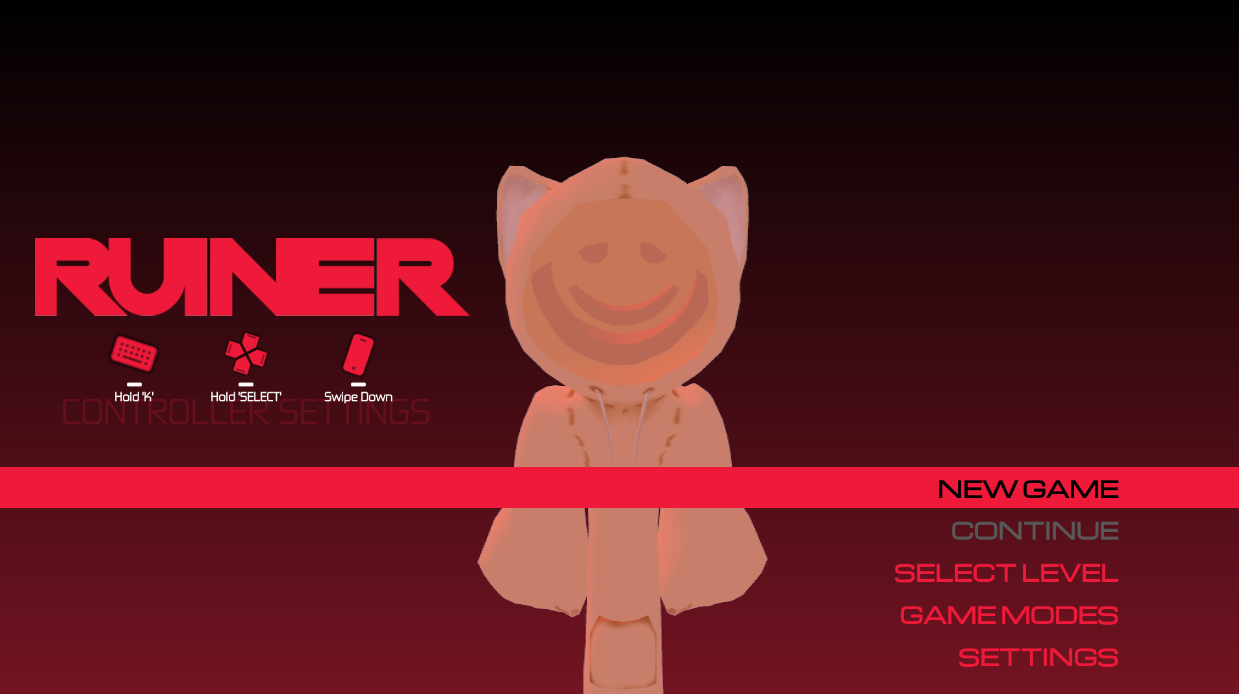
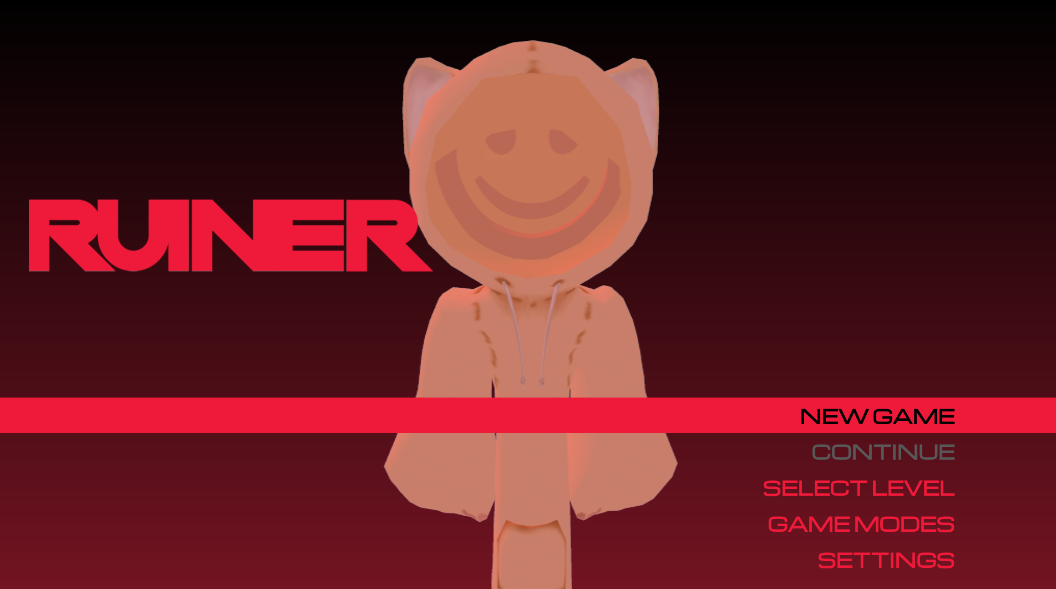
docs(style): some features are removed and news are implemented

diff --git a/README.md b/README.md
@@ -6,15 +6,14 @@ A modern Ui with nice red tones, should be used as the main Menu of your game. C
 
 ## 🔥 Announcement
 
-[![See on Youtube]()]()
+[![unavailable link]()]()
 
 _Check the oficial video for a detailed preview from the project_
 
 ## 💡 Features
 
 - Insane & beautiful color palletes
-- Input method switcher
-- Compatibility w/ Gamepads, Mobile & Keyboard to navigate through buttons
+- Compatibility w/ Keyboard to navigate through buttons
 - 3D Preview of your char in the background
 - Basic animations (char included)
 
@@ -53,19 +52,6 @@ no CMD or especial commands are required to install this project
   - Navigate up: `Arrow Up`
   - Navigate down: `Arrow Down`
 
-- Gamepad:
-
-  - Enter on a especified window: `A` or `X`
-  - Navigate up: `DPad Up`
-  - Navigate down: `DPad Down`
-
-- Mobile:
-  - Enter on a especified window: `Touch`
-  - Navigate up: `Swipe up`
-  - Navigate down: `Swipe down`
-
-_All of the time, the player can switch the input method using Keybinds or Gestures._
-
 > _this is a basic demo, the usage tutorial is propositely simple_
 
 ## 👨🏻💻 Contribution
@@ -77,7 +63,3 @@ _currently non-contributable project_
 ### License:
 
 > This project has been inspired in a unoficial game on Internet, anything assets that is not my property are inserted in this repo files. For issues contact my professional email: `kareudeveloper@gmail.com`
-
-### Source Code license:
-
-> This project is a paid project, because this reason, you can only acess the source code of all systems if you're paid for this, for more info contact me on my Discord social media: `@kareu_uu` or my professional email: `kareudeveloper@gmail.com`
